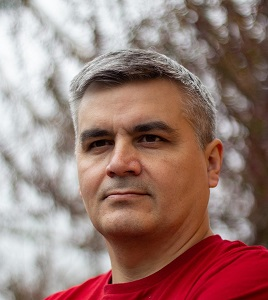
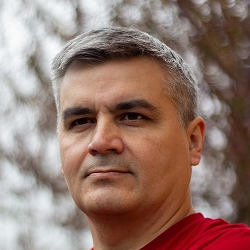
draft: content stage

diff --git a/index.html b/index.html
@@ -29,6 +29,9 @@
               <a href="#projects" class="menu-link">Projects</a>
             </li>
             <li class="menu-item">
+              <a href="#code" class="menu-link">Code</a>
+            </li>
+            <li class="menu-item">
               <a href="#education" class="menu-link">Education</a>
             </li>
             <li class="menu-item">
@@ -41,7 +44,8 @@
     <main>
       <div class="container">
         <section class="section" id="profile">
-          <h1 class="section__title"></h1>
+          <h1 class="section__title">Maksim Zinchenko</h1>
+          <img class="photo" src="avatar.jpg" />
         </section>
         <section class="section" id="contacts">
           <h2 class="section__title">Contacts</h2>
@@ -105,9 +109,80 @@
         </section>
         <section class="section" id="courses">
           <h2 class="section__title">Courses</h2>
+          <div class="courses-list">
+            <ul>
+              <li class="courses-list__item">
+                <a
+                  class="courses-list__link"
+                  href="https://www.codecademy.com/profiles/lipkij"
+                  >Codeacademy: https://www.codecademy.com/profiles/lipkij</a
+                >
+              </li>
+              <li class="courses-list__item">
+                <a
+                  class="courses-list__link"
+                  href="https://www.w3profile.com/woxxel"
+                  >www.w3schools.com: https://www.w3profile.com/woxxel</a
+                >
+              </li>
+            </ul>
+          </div>
         </section>
         <section class="section" id="projects">
           <h2 class="section__title">Projects</h2>
+          <ul class="projects-list">
+            <li class="project-list__item">
+              <a class="project-list__link" href="https://alcisdom.com/"
+                >Real estate agency website: https://alcisdom.com/</a
+              >
+            </li>
+            <li class="project-list__item">
+              <a
+                class="project-list__link"
+                href="https://www.youtube.com/watch?v=CucgqOaN1qQ"
+                >Youtube stream chat game engine:
+                https://www.youtube.com/watch?v=CucgqOaN1qQ</a
+              >
+            </li>
+            <li class="project-list__item">
+              <a
+                class="project-list__link"
+                href="https://github.com/maksimzinchenko/JSPuzzle"
+                >Simple JS memory puzzle games:
+                https://github.com/maksimzinchenko/JSPuzzle</a
+              >
+            </li>
+          </ul>
+        </section>
+
+        <section class="section" id="code">
+          <h2 class="section__title">Code</h2>
+          <div class="code_wrapper">
+            <pre>
+                const timerManager = {
+                    timersIDArray: [],
+                    setTimeout: function (fn, delay, ...params) {
+                        let timerId = setTimeout(fn, delay, ...params);
+                        this.timersIDArray.push(timerId);
+                        return timerId;
+                    },
+                    clearTimeout: function (timerId) {
+                        let index = this.timersIDArray.indexOf(timerId);
+                        if (index > -1) {
+                            this.timersIDArray.splice(index, 1);
+                            clearTimeout(index);
+                        }
+                    },
+                    clearAllTimeout: function () {
+                        while (this.timersIDArray.length > 0) {
+                            let index = this.timersIDArray.pop();
+                            clearTimeout(index);
+                        }
+                    }
+                }
+              </pre
+            >
+          </div>
         </section>
         <section class="section" id="education">
           <h2 class="section__title">Education</h2>
@@ -118,7 +193,6 @@
         <section class="section" id="languages">
           <h2 class="section__title">Languages</h2>
           <p>English - Intermediate</p>
-
           <p>Russian - Fluent</p>
         </section>
       </div>

diff --git a/style.css b/style.css
@@ -3,11 +3,12 @@
 }
 
 * {
-  border: 1px solid red;
+  /* border: 1px solid red; */
 }
 
 html {
   scroll-behavior: smooth;
+  font-family: "Times New Roman", Times, serif;
 }
 
 .container {
@@ -16,13 +17,18 @@ html {
 }
 
 .menu-list {
-    list-style: none;
-  }
+  list-style: none;
+  display: flex;
+}
 
-  .menu-link {
-    padding: 0 20px;
-    line-height: 50px;
-    text-decoration: none;
-    font-size: large;
-    transition: .3s;
-  }
+.menu-link {
+  padding: 0 20px;
+  line-height: 50px;
+  text-decoration: none;
+  font-size: large;
+  transition: 0.3s;
+}
+
+.photo {
+    border-radius: 50%;
+}
